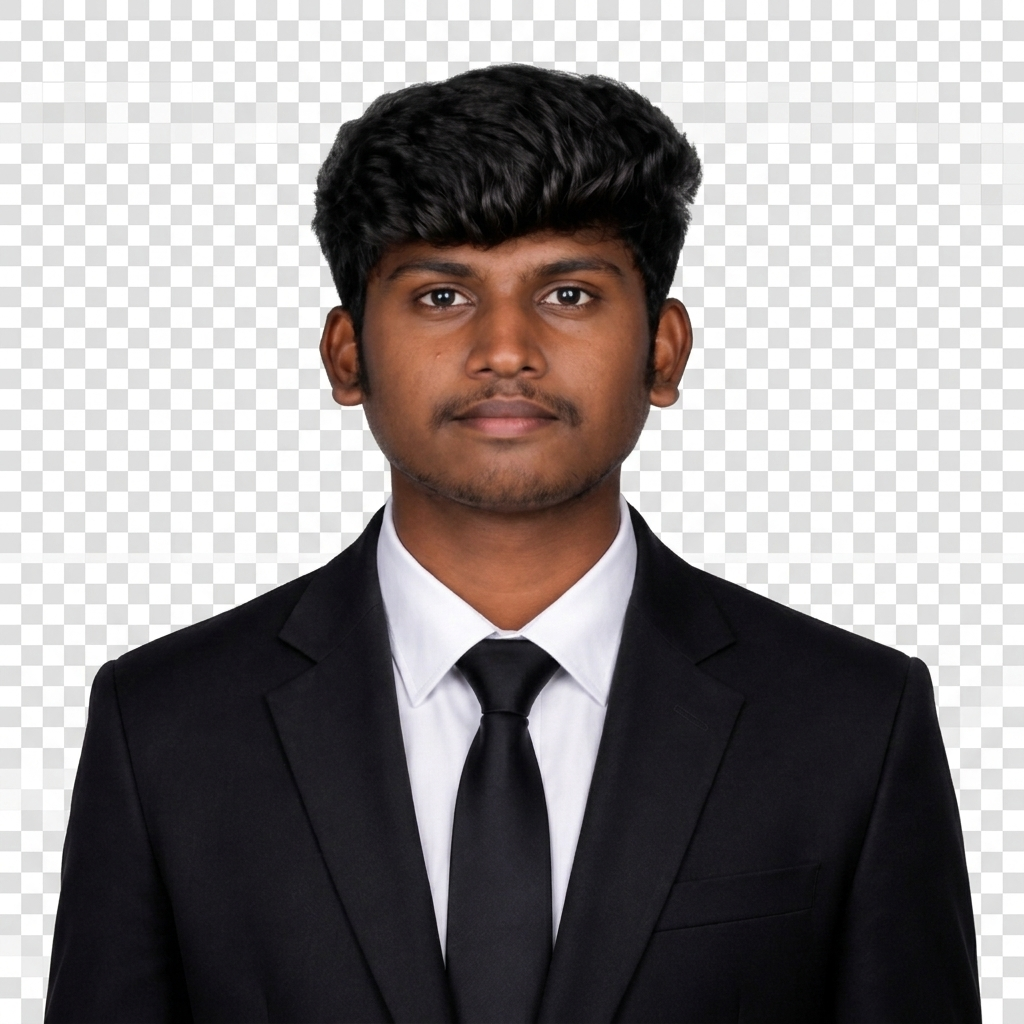
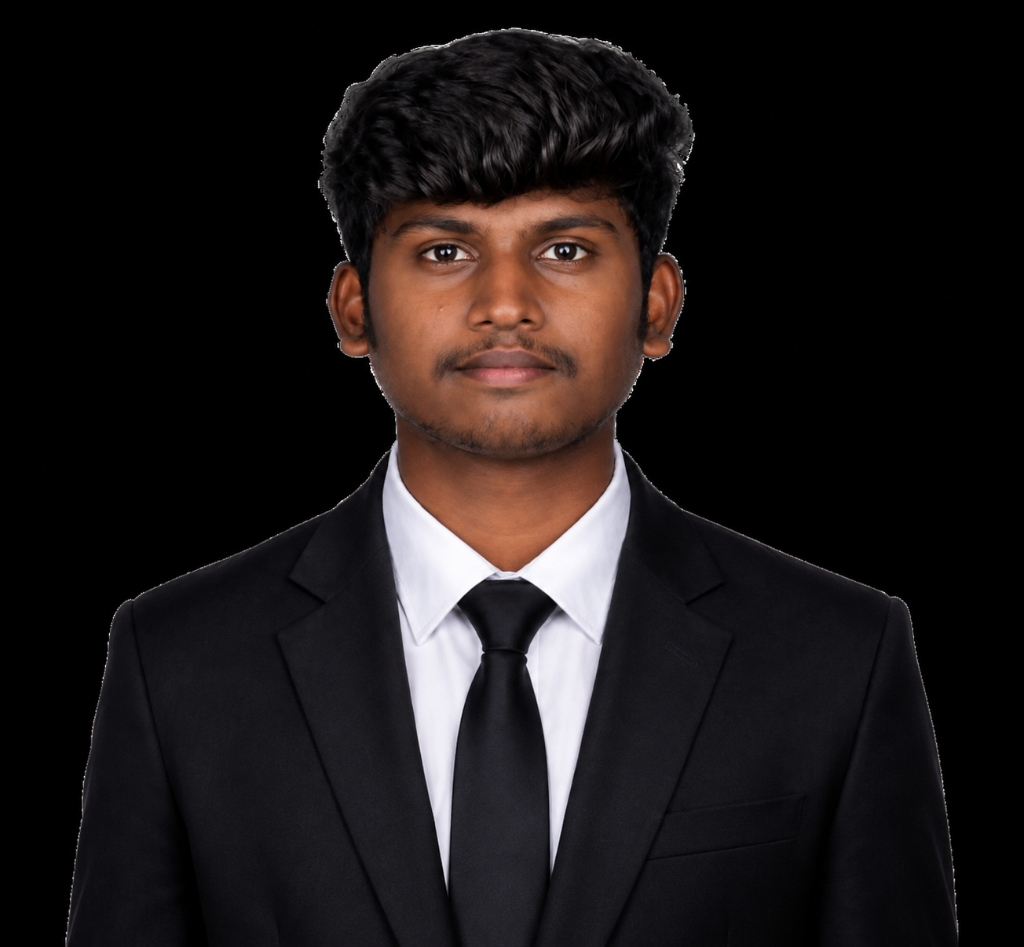
Optimize portrait image blend mode and radial mask filters for black background matching

diff --git a/src/components/Hero.tsx b/src/components/Hero.tsx
@@ -305,13 +305,13 @@ const Hero: React.FC<HeroProps> = ({ profile }) => {
               width: '90%',
               maxHeight: '85vh',
               objectFit: 'contain',
-              borderRadius: (profile.profile_image && profile.profile_image.includes('dileep')) ? '2rem' : '0',
-              border: (profile.profile_image && profile.profile_image.includes('dileep')) ? '2px solid rgba(16, 185, 129, 0.15)' : 'none',
-              boxShadow: (profile.profile_image && profile.profile_image.includes('dileep')) ? '0 0 30px rgba(16, 185, 129, 0.1)' : 'none',
-              mixBlendMode: (profile.profile_image && profile.profile_image.includes('dileep')) ? 'normal' : 'screen',
+              borderRadius: '0',
+              border: 'none',
+              boxShadow: 'none',
+              mixBlendMode: (profile.profile_image && profile.profile_image.includes('dileep')) ? 'lighten' : 'screen',
               filter: (profile.profile_image && profile.profile_image.includes('dileep')) ? 'none' : 'brightness(1.2) contrast(1.5)',
-              WebkitMaskImage: (profile.profile_image && profile.profile_image.includes('dileep')) ? 'none' : 'radial-gradient(circle, black 60%, transparent 95%)',
-              maskImage: (profile.profile_image && profile.profile_image.includes('dileep')) ? 'none' : 'radial-gradient(circle, black 60%, transparent 95%)',
+              WebkitMaskImage: 'radial-gradient(circle, black 55%, transparent 85%)',
+              maskImage: 'radial-gradient(circle, black 55%, transparent 85%)',
               pointerEvents: 'none',
               position: 'relative',
               zIndex: 2,
